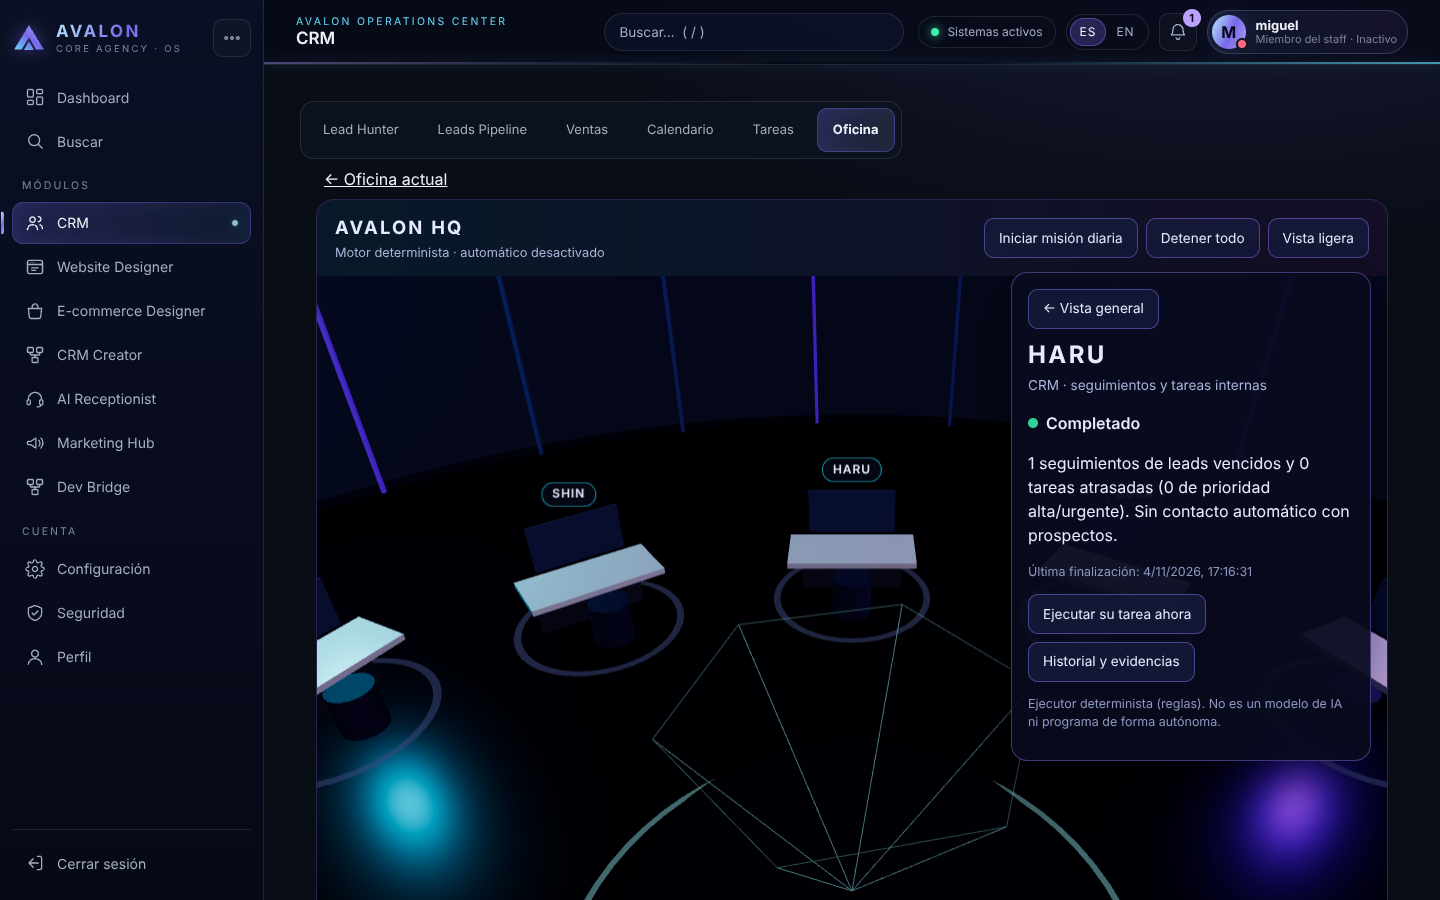
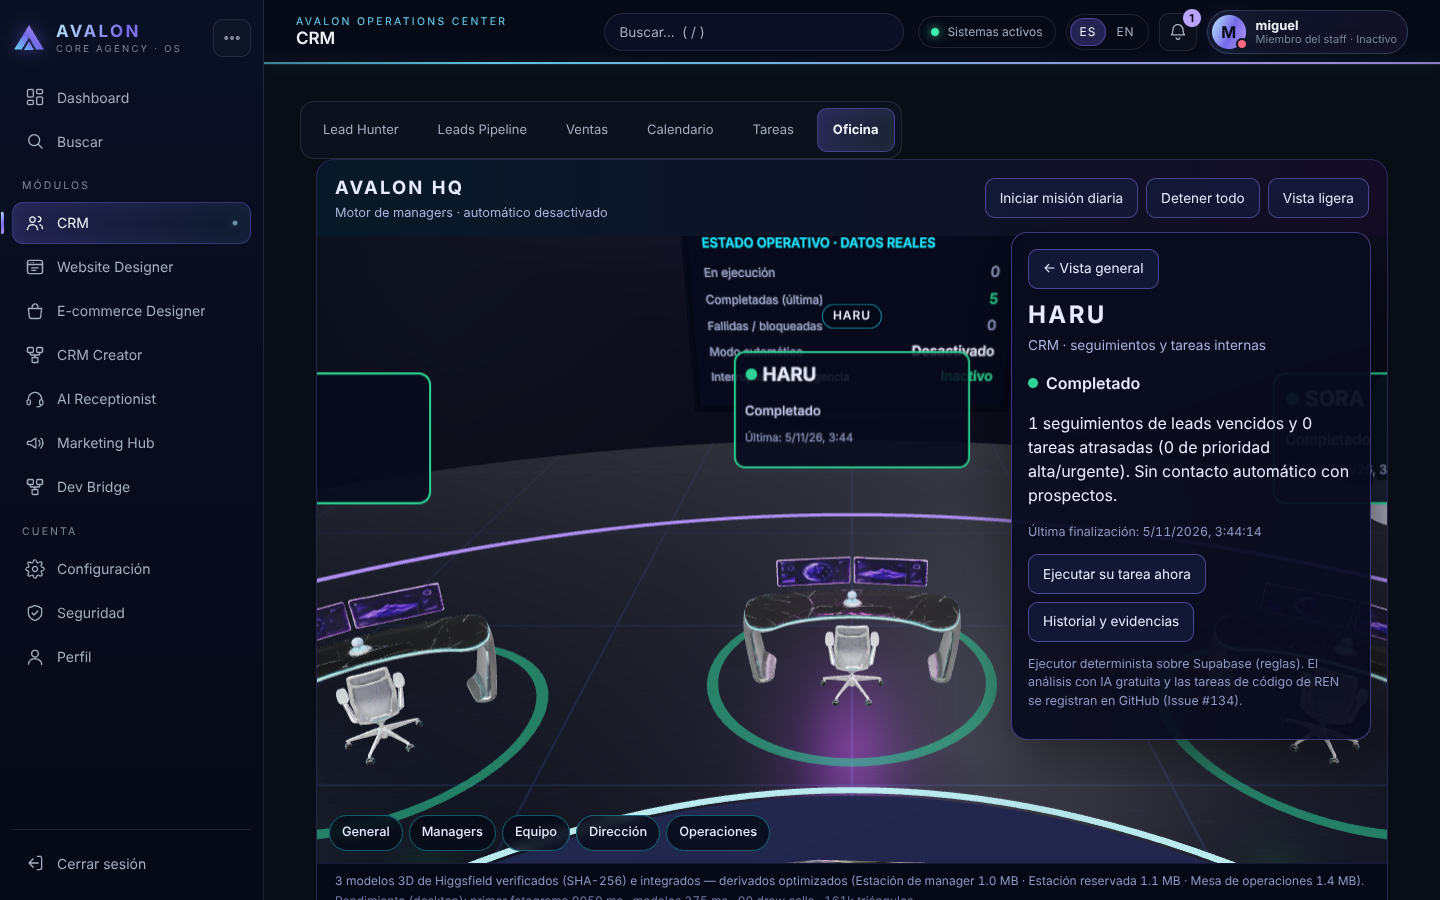
fix: keep SHIN's anon-definer review strict with the reviewed AI control exception; time-based HQ camera; docs + evidence
- SHIN's production catalog review (crm_agent_security_posture_internal) flagged crm_ai_public_control: the AI Engine
  migration now redefines it with the same body and the reviewed exception (like crm_public_inquiry); a new test proves
  any OTHER anon-callable definer is still flagged. agents-engine test allowlist updated with the same reason.
- REN pipeline was red in CI because tests/agents-managers.database.cjs failed for that reason (REN reverted correctly).
- tests/sales.browser.cjs: /crm/office now redirects to the single HQ; owner check moved to /crm/office/hq.
- CodeQL: control test uses mkdtemp and passes the reply path as an argument (no code interpolation).
- HQ camera flights are time-based (750 ms) instead of per-frame lerp: same speed on slow GPUs, stable labels.
- docs: AI Engine order lifecycle + single control; HQ_0350 corrected (GLBs imported as optimized derivatives; earlier
  wording was inaccurate); fresh desktop/iPhone/executive screenshots and recorded performance.

Claude-Session: https://claude.ai/code/session_01TVCLxbSyZ89zi6BT52JCn3

diff --git a/src/components/office/hq-3d.tsx b/src/components/office/hq-3d.tsx
@@ -315,7 +315,9 @@ export function Hq3d({ team = [], onSelectPerson }: { team?: HqPerson[]; onSelec
       let lastViews: Record<string, StationView> = {}; let lastActivity: Activity | null = null;
 
       // ── Interaction ───────────────────────────────────────────────────────────────────────────────────────────────
-      let target: THREE.Vector3 | null = null; let targetLook: THREE.Vector3 | null = null;
+      // Time-based camera flights (same duration on any device, unlike a per-frame lerp on a slow GPU).
+      let flight: { from: THREE.Vector3; to: THREE.Vector3; lookFrom: THREE.Vector3; lookTo: THREE.Vector3; t0: number } | null = null;
+      const FLIGHT_MS = 750;
       const ray = new T.Raycaster(); const ptr = new T.Vector2(); let downAt = 0;
       const onDown = () => { downAt = performance.now(); };
       const onUp = (e: PointerEvent) => {
@@ -331,7 +333,7 @@ export function Hq3d({ team = [], onSelectPerson }: { team?: HqPerson[]; onSelec
       renderer.domElement.addEventListener("pointerup", onUp);
       const fly = (pos: THREE.Vector3, look: THREE.Vector3) => {
         if (reduced) { camera.position.copy(pos); controls.target.copy(look); invalidate(); return; }
-        target = pos; targetLook = look; invalidate();
+        flight = { from: camera.position.clone(), to: pos, lookFrom: controls.target.clone(), lookTo: look, t0: performance.now() }; invalidate();
       };
       const PRESETS: Record<Preset, [THREE.Vector3, THREE.Vector3]> = {
         overview: [home.clone(), mobile ? new T.Vector3(0, 0, 0) : new T.Vector3(0, 1, -1.5)],
@@ -386,9 +388,11 @@ export function Hq3d({ team = [], onSelectPerson }: { team?: HqPerson[]; onSelec
           for (const st of Object.values(stations)) st.halo.opacity = st.animate ? 0.55 + Math.sin(t * 4) * 0.35 : 0.55;
         }
         let moving = false;
-        if (target && targetLook) {
-          camera.position.lerp(target, 0.09); controls.target.lerp(targetLook, 0.09); moving = true;
-          if (camera.position.distanceTo(target) < 0.04) target = targetLook = null;
+        if (flight) {
+          const k = Math.min(1, (performance.now() - flight.t0) / FLIGHT_MS);
+          const e = k < 0.5 ? 4 * k * k * k : 1 - Math.pow(-2 * k + 2, 3) / 2; // ease-in-out cubic
+          camera.position.lerpVectors(flight.from, flight.to, e); controls.target.lerpVectors(flight.lookFrom, flight.lookTo, e);
+          moving = k < 1; if (k >= 1) flight = null;
         }
         const changed = controls.update();
         renderer.render(scene, camera); labels.render(scene, camera);

diff --git a/docs/office/HQ_0350.md b/docs/office/HQ_0350.md
@@ -49,18 +49,23 @@ Producción: el motor tiene **0 ejecuciones** y `automatic_enabled=false`. Para 
 
 Imágenes: gasto confirmado por el historial de transacciones (4 × 1,5). GLB: coste previsto por la API (`get_cost` = 30); el consumo real se registra al liquidar.
 
-**Estado de los GLB (2026-11-04):** descargados del CDN de Higgsfield y verificados como válidos (glTF 2.0 binary, cabecera y JSON OK):
-- station.glb: 11,529,812 bytes (11,00 MiB)
-- pod.glb: 11,524,756 bytes (10,99 MiB)
-- ops.glb: 15,084,004 bytes (14,39 MiB)
+**Estado de los GLB (verificado 2026-11-05):** descargados del CDN de Higgsfield, validados (glTF 2.0, cabecera, longitud, JSON) e
+**importados** por `scripts/creative-bridge/import-asset.cjs` (SHA-256 + estructura GLB; tope de 12 MiB **sin cambios**) como
+**derivados optimizados**: geometría original intacta y las 4 texturas PBR de cada modelo reducidas a ≤1024 px JPEG.
 
-**Limitación:** `scripts/creative-bridge/import-asset.cjs` enforces a 12 MiB hard limit (line 54, for security). ops.glb exceeds it by ~3 MB; station and pod are borderline. Aggressive texture/poly optimization attempted but did not yield sufficient compression without specialized tools or quality loss unacceptable for UI assets.
+| Modelo | Job | Original | Publicado | SHA-256 |
+|---|---|---|---|---|
+| Estación de manager | `d1e875d2…` | 11.529.812 B | 1.093.788 B | `0e4257d0…` |
+| Estación reservada (cubículo vacío) | `8a56b6cb…` | 11.524.756 B | 1.170.576 B | `cdb1613c…` |
+| Mesa de operaciones | `c0a35fe5…` | 15.084.004 B | 1.451.040 B | `5cbaadff…` |
 
-**Fallback (presente):** la escena usa **geometría procedural** (cubos texturados, rotación suave, sin GLB) cuando `path: null` en `hq-assets.ts`. Renders correctly on desktop and mobile; animations update in real-time when tasks run. ✓ Functional.
+Corrección: una versión anterior de este documento decía que station/pod estaban "en el límite" y que la optimización "se
+intentó sin éxito". No era cierto: cabían (11 MiB < 12 MiB) y el intento de reducir texturas nunca llegó a ejecutarse. La
+reducción real se hizo el 2026-11-05 con gltf-transform + sharp en una carpeta privada; no se gastaron créditos.
 
-**Próximo paso:** si los GLB importados son críticos, optimizarlos offline (herramientas de compresión gltf-transform con parámetros avanzados, texture resizing agresivo) e importar con `node scripts/creative-bridge/import-asset.cjs <manifiesto-privado> <asset-id> <glb> --approve-public-use --higgsfield-job=<job-id>`, luego fijar `path`/`sha256` en `src/lib/office/hq-assets.ts`. En caso contrario, mantener la geometría procedural (funcionan igual, más ligera en móvil).
+## 3. Oficina 3D (una sola Avalon HQ desde 2026-11-05)
+Ruta oficial: `/admin/workspace/crm/office/hq` (`/office` redirige). La escena 3D sustituye a la antigua planta isométrica (`IsoOffice`, eliminada) dentro de la Oficina; directorio, presencia, perfiles, mensajes, tareas, KPI, actividad, vista ejecutiva y comprobaciones GitHub quedan como paneles debajo. Detalle original:
 
-## 3. Oficina 3D
 `/admin/workspace/crm/office/hq` (solo owners, dentro del HUD; la oficina anterior sigue en `/admin/workspace/crm/office` = rollback inmediato).
 - `three@0.169.0` cargado bajo demanda (la ruta pesa 6,97 kB); cámara orbital táctil, selección por etiqueta o toque, acercamiento y vuelta a vista general.
 - 10 estaciones: zona A con los 5 managers conectados a `manager-activity` (colores por estado real; **solo una ejecución en curso anima**); zona B con 5 estaciones reservadas «Próxima incorporación — Equipo de Samuel», sin cuentas, IA ni automatizaciones.

diff --git a/docs/ai-engine/AVALON_AI_ENGINE.md b/docs/ai-engine/AVALON_AI_ENGINE.md
@@ -36,8 +36,8 @@ Las claves son secretos de servidor (nunca `NEXT_PUBLIC_*`, comprobado en el gua
 |---|---|---|---|---|
 | REN | Dirección y desarrollo | plan diario; tareas de desarrollo de bajo riesgo | `operations_plan` (SQL), worker de desarrollo (rama + PR borrador, requiere revisión) | code+json, calidad ≥3 |
 | SHIN | Seguridad | postura de seguridad | `security_posture` (SQL) | reasoning |
-| HARU | CRM | seguimientos vencidos = tareas | `crm_followups`, `followup_tasks` (escritura interna) | rápido |
-| SORA | Lead Hunter | cola del Radar 4–5★ | `radar_review_queue` | json |
+| HARU | CRM y producto | seguimientos vencidos = tareas; 13 etapas, calendario y tareas | `crm_followups`, `followup_tasks` (escritura interna), pruebas CRM/calendario/tareas | rápido |
+| SORA | Integraciones (Radar, Geoapify, Higgsfield Bridge) | cola del Radar; integridad SHA-256 de recursos publicados; clave Geoapify privada | `radar_review_queue` + comprobación de integraciones | json |
 | KENJI | Calidad y costos | calidad de datos; coste IA = 0 | `data_quality_cost`, libro de uso IA | rápido |
 | Puestos 6–10 | Próxima incorporación — Equipo de Samuel | — | — | — (la base impide asignarles ejecutores o IA) |
 
@@ -96,6 +96,21 @@ dos veces a la vez, y reanudación tras caída (punto de control antes de trabaj
   analiza) → si pide algo del nivel propietario se marca `avalon:needs-owner` sin ejecutar → si no, ejecuta y responde en el Issue
   (`avalon:in-progress` → `avalon:done`).
 - Con proveedores configurados, cada manager añade un análisis de IA gratuita sobre sus hechos; sin ellos lo indica (`not_configured`).
+
+## Ciclo de vida de una orden (P0-A)
+Recibida → clasificada (manager + intención) → en ejecución → **diagnosticada** (`avalon:diagnosed`) / **implementación
+pendiente** (`avalon:needs-implementation`) / implementada (`avalon:implemented`, cambio sin verificación verde) /
+**verificada** (`avalon:verified`, cambio + pruebas en verde) / bloqueada / fallida / requiere propietario. Una rutina
+terminada nunca marca una orden como hecha; `avalon:done` ya no se produce. Una excepción devuelve la orden a la cola
+(máx. 3 intentos, luego `avalon:failed`); una orden atascada en curso >30 min se recupera (P0-B).
+
+## Un solo control operativo
+El interruptor de emergencia y las suspensiones de Avalon (Supabase, botón «Detener todo» de Avalon HQ) son la única
+fuente de verdad. GitHub Actions (rutina, recepción de órdenes y REN) los lee con `crm_ai_public_control()` y la clave
+**publicable** (variables de repositorio `AVALON_SUPABASE_URL`, `AVALON_SUPABASE_PUBLISHABLE_KEY`). Control inalcanzable
+o respuesta anómala → se detiene todo. Control no conectado (variables sin definir o migración sin aplicar) → las
+ejecuciones **programadas** no corren; una ejecución manual (etiqueta/dispatch, requiere permiso de escritura) sí, y lo
+indica. La variable `AVALON_AI_ENGINE_DISABLED=true` sigue funcionando como segundo freno.
 
 ## Rollback
 Variable `AVALON_AI_ENGINE_DISABLED=true` (para todo), borrar los secretos, revertir el PR. Base de datos: no aplicada; si se aplica,
